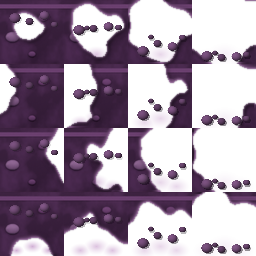
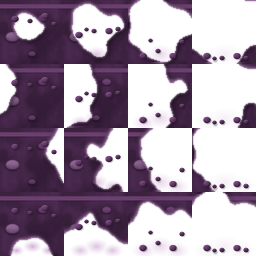
Bram: vallende steentjes als kluitjes aarde met lichte bovenrand, kleiner en sneller (kan Daan 12:45); graaf_proef uit de Windows-run
Claude-Session: https://claude.ai/code/session_01RMWUyhw4Q7MMNHqcoVVszS

diff --git a/ontwerp/steam/graaf-3d/maak_graaf.py b/ontwerp/steam/graaf-3d/maak_graaf.py
@@ -52,6 +52,34 @@ def bol(r, kleur, licht=(-0.55, -0.6)):
     return out
 
 
+def kluit(r, kleur, rand_kleur):
+    """Kluitje aarde (Bram 14 nov): bolletje in de kleur van de aarde met een lichte bovenrand in kiezelkleur."""
+    out = bol(r, kleur)
+    d = out.shape[0]
+    yy, xx = np.mgrid[0:d, 0:d].astype(np.float32)
+    c = (d - 1) / 2
+    nx, ny = (xx - c) / r, (yy - c) / (r * 0.86)
+    rr = nx * nx + ny * ny
+    # rand: buitenste deel van de bol, aan de bovenkant (en iets naar links, waar het licht vandaan komt)
+    boven = np.clip(-(ny * 1.0 + nx * 0.4), 0, 1)
+    lip = np.clip((rr - 0.2) * 2.5, 0, 1) * np.clip(boven * 1.6, 0, 1) * np.clip((0.95 - rr) * 4, 0, 1) * out[..., 3]
+    rk = np.array(rand_kleur, dtype=np.float32)[None, None, :] / 255.0
+    out[..., :3] = out[..., :3] * (1 - lip[..., None]) + rk * lip[..., None]
+    return out
+
+
+def klein(stuk, f=4):
+    """Verklein een op f-maal gemaakt stuk met voorvermenigvuldigde alfa, zodat kleine kluitjes rond blijven."""
+    h, w = stuk.shape[:2]
+    pm = stuk.copy()
+    pm[..., :3] *= pm[..., 3:4]
+    nw, nh = max(1, round(w / f)), max(1, round(h / f))
+    kan = [np.asarray(Image.fromarray(pm[..., k]).resize((nw, nh), Image.BOX), dtype=np.float32) for k in range(4)]
+    out = np.dstack(kan)
+    out[..., :3] /= np.maximum(out[..., 3:4], 1e-6)
+    return np.clip(out, 0, 1)
+
+
 def plak(doek, stuk, x, y):
     h, w = stuk.shape[:2]
     x0, y0 = int(round(x - w / 2)), int(round(y - h / 2))
@@ -154,11 +182,13 @@ def maak_rij(aarde, kant):
             t = np.clip((i + 1) / FRAMES * 1.25 - vt, 0, 1)
             if t <= 0:
                 continue
-            sy = sy0 + (sy1 - sy0) * t * t
-            kleur = np.clip(kiezel * kf * 0.95 * 255, 0, 255)
-            schaduw = bol(r * 1.1, (20, 8, 24)); schaduw[..., 3] *= 0.45 * t
-            plak(out, schaduw, sx + 1.2, sy + 1.5)
-            plak(out, bol(r * 1.15, kleur), sx, sy)
+            sy = sy0 + (sy1 - sy0) * min(1.0, t * t * 1.3)     # Bram 14 nov: sneller vallen
+            # Bram 14 nov (kan Daan 12:45): kleur van de aarde met een lichte bovenrand in kiezelkleur, kleiner,
+            # en een zwakkere schaduw, zodat ze als kluitjes aarde lezen en niet als kevers of gaten
+            kleur = np.clip(gem * kf * 1.5 * 255, 0, 255)
+            schaduw = klein(bol(r * 3.2, (20, 8, 24))); schaduw[..., 3] *= 0.25 * t
+            plak(out, schaduw, sx + 0.8, sy + 1.0)
+            plak(out, klein(kluit(r * 3.2, kleur, np.clip(kiezel * 1.1 * 255, 0, 255))), sx, sy)
         beelden.append(out)
     return np.concatenate(beelden, 1)
 
